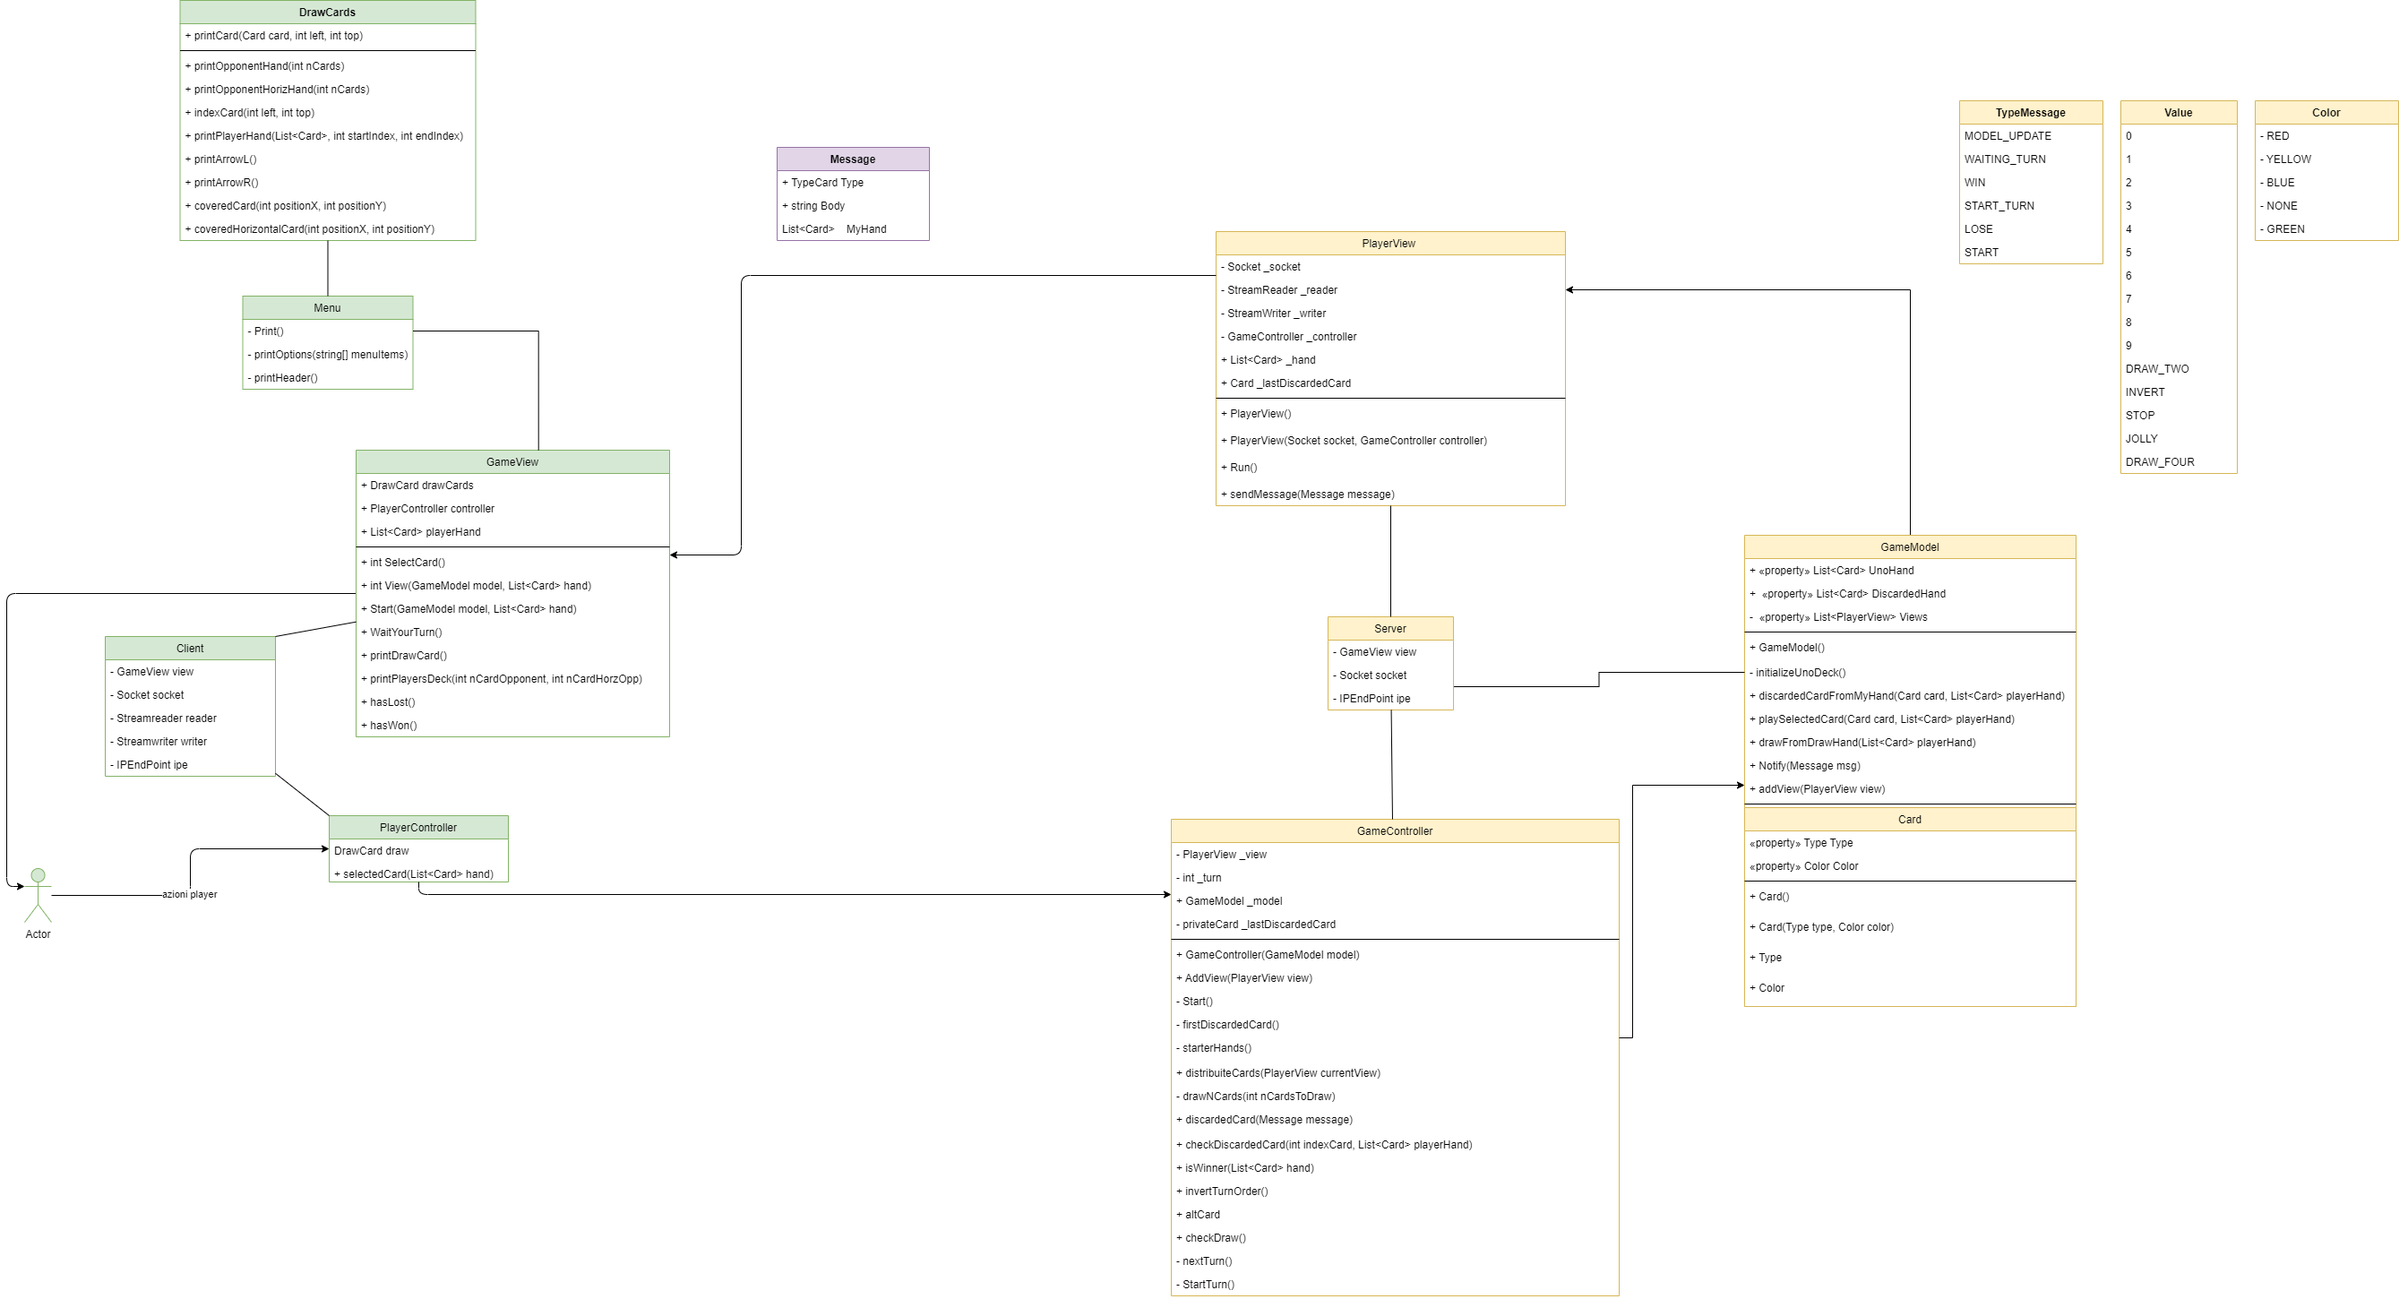
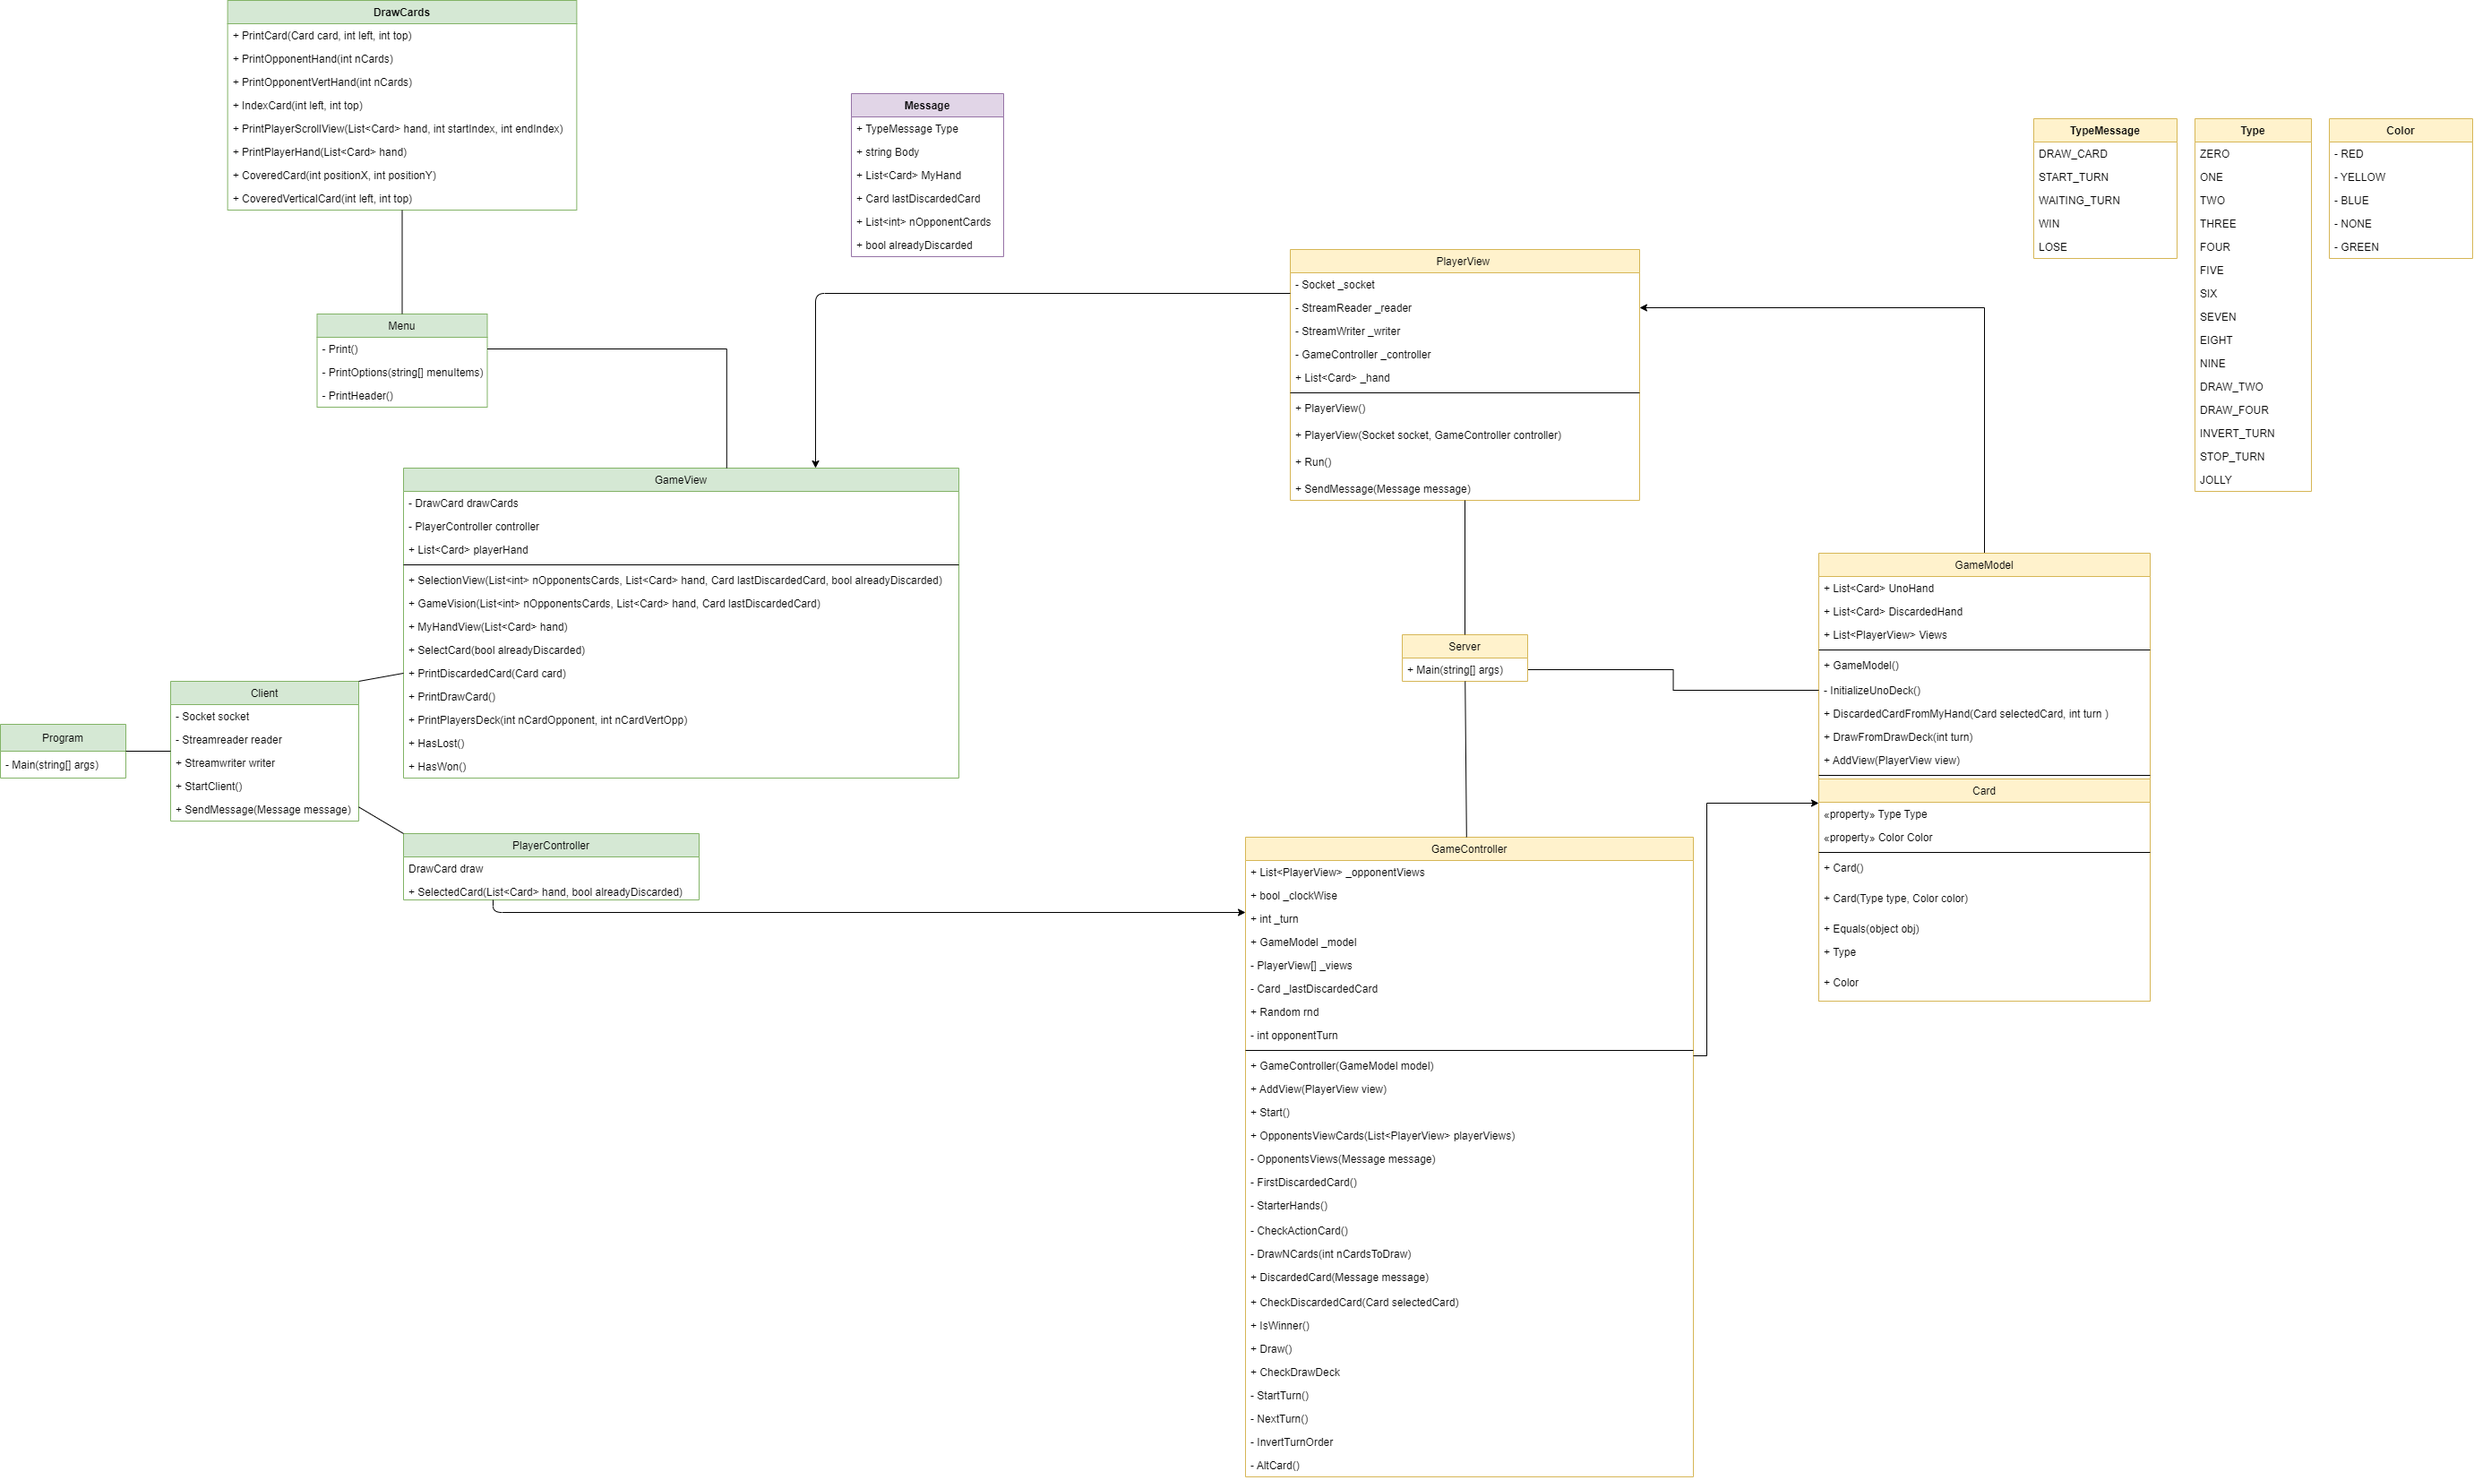
V2.1 Class Access Specifier, Cleaning Code

diff --git a/UnoProgetto/UnoProgetto/Utilis/DrawCards.cs b/UnoProgetto/UnoProgetto/Utilis/DrawCards.cs
@@ -11,7 +11,7 @@ namespace Client.Utilis
     {
       
         
-        internal void printCard(Card card, int left, int top)
+        internal void PrintCard(Card card, int left, int top)
         {
             switch (card.Color)
             {
@@ -58,9 +58,6 @@ namespace Client.Utilis
                 case UnoGame.Models.Type.JOLLY:
                     Console.WriteLine("|JOLLY|");
                     break;
-                case UnoGame.Models.Type.CHANGE_COLOR:
-                    Console.WriteLine("|COLOR|");
-                    break;
                 case UnoGame.Models.Type.ZERO:
                     Console.WriteLine("|  0  |");
                     break;
@@ -103,7 +100,7 @@ namespace Client.Utilis
             Console.ResetColor();
         }
 
-        internal void printOpponentHand(int nCards)
+        internal void PrintOpponentHand(int nCards)
         {
             int top = 0;
             int left = 30;
@@ -112,7 +109,7 @@ namespace Client.Utilis
             {
                 for (int i = 0; i < nCards; i++)
                 {
-                    coveredCard(left, top);
+                    CoveredCard(left, top);
                     left += 10;
                 }
             }
@@ -120,7 +117,7 @@ namespace Client.Utilis
             {
                 for (int i = 0; i < 7; i++)
                 {
-                    coveredCard(left, top);
+                    CoveredCard(left, top);
                     left += 10;
                 }
 
@@ -133,7 +130,7 @@ namespace Client.Utilis
             
         }
 
-        internal void printOpponentVertHand(int nCards)
+        internal void PrintOpponentVertHand(int nCards)
         {
             int left = 0;
             int top = 1;
@@ -144,7 +141,7 @@ namespace Client.Utilis
 
                 for (int i = 0; i < nCards; i++)
                 {
-                    coveredVerticalCard(left, top);
+                    CoveredVerticalCard(left, top);
                     top += 5;
                 }
                 
@@ -153,7 +150,7 @@ namespace Client.Utilis
             {
                 for (int i = 0; i < 7; i++)
                 {
-                    coveredVerticalCard(left, top);
+                    CoveredVerticalCard(left, top);
                     top += 5;
                 }
 
@@ -163,28 +160,27 @@ namespace Client.Utilis
             }
         }
 
-        internal void indexCard(int left, int top)
+        internal void IndexCard(int left, int top)
         {
             Console.SetCursorPosition(left, top);
             Console.WriteLine("*");
         }
 
-        public void printPlayerScrollView(List<Card> hand, int startIndex, int endIndex)
+        internal void PrintPlayerScrollView(List<Card> hand, int startIndex, int endIndex)
         {
 
             int top = 37;
             int left = 30;
             for (int i = startIndex; i <endIndex; i++)
             {
-                printCard(hand[i], left, top);
+                PrintCard(hand[i], left, top);
                 left += 10;
 
             }
 
         }
 
-
-        public void printPlayerHand(List<Card> hand)
+        internal void PrintPlayerHand(List<Card> hand)
         {
             int top = 37;
             int left = 30;
@@ -192,7 +188,7 @@ namespace Client.Utilis
             {
                 for (int i = 0; i < 7; i++)
                 {
-                    printCard(hand[i], left, top);
+                    PrintCard(hand[i], left, top);
                     left += 10;
 
 
@@ -202,7 +198,7 @@ namespace Client.Utilis
             {
                 for (int i = 0; i < hand.Count; i++)
                 {
-                    printCard(hand[i], left, top);
+                    PrintCard(hand[i], left, top);
                     left += 10;
 
 
@@ -211,20 +207,8 @@ namespace Client.Utilis
        
          
         }
-        internal void printArrowL()
-        {
-            Console.SetCursorPosition(50,40);
-            Console.WriteLine("-->");
-        }
-
-        internal void printArrowR()
-        {
-            Console.SetCursorPosition(30, 40);
-            Console.WriteLine("<--");
-        }
-
-
-        public void coveredCard(int positionX, int positionY)
+        
+        public void CoveredCard(int positionX, int positionY)
         {
             Console.SetCursorPosition(positionX, positionY);
             Console.WriteLine(" _____ ");
@@ -249,7 +233,7 @@ namespace Client.Utilis
             Console.ResetColor();
         }
 
-        public void coveredVerticalCard(int left, int top)
+        internal void CoveredVerticalCard(int left, int top)
         {
             Console.SetCursorPosition(left, top);
             Console.WriteLine(" ----------");

diff --git a/UnoProgetto/UnoProgetto/GameView.cs b/UnoProgetto/UnoProgetto/GameView.cs
@@ -26,7 +26,7 @@ namespace Client
         {
 
             Console.Clear();
-           playerHand = hand;
+            playerHand = hand;
 
             //stampo mani COPERTE giocatori avversari
             PrintPlayersDeck(nOpponentsCards[0], nOpponentsCards[1]);
@@ -38,7 +38,10 @@ namespace Client
             PrintDrawCard();
 
             //visione del mio deck
-            drawCards.printPlayerHand(hand);
+            drawCards.PrintPlayerHand(hand);
+
+            Console.WriteLine(" ");
+            Console.WriteLine("Press P to draw, use arrow keys to change card");
 
             //selezione della carta
             int index = SelectCard(alreadyDiscarded);
@@ -75,42 +78,41 @@ namespace Client
             PrintDrawCard();
 
             //visione del mio deck
-            drawCards.printPlayerHand(hand);
+            drawCards.PrintPlayerHand(hand);
 
             Console.WriteLine("Wait your turn!");
         }
 
         internal void MyHandView(List<Card> hand)
         {
-            drawCards.printPlayerHand(hand);
+            drawCards.PrintPlayerHand(hand);
 
         }
 
        
         internal int SelectCard(bool alreadyDiscarded)
         {
-            int index = controller.selectCard(playerHand, alreadyDiscarded);
+            int index = controller.SelectCard(playerHand, alreadyDiscarded);
             return index;
         }
 
 
-
         internal void PrintDiscardedCard(Card card)
         {
-            drawCards.printCard(card, 63,15);
+            drawCards.PrintCard(card, 63,15);
         }
 
         internal void PrintDrawCard()
         {
-            drawCards.coveredCard(72, 15);
+            drawCards.CoveredCard(72, 15);
         }
 
 
         //stampa le mani (nascosti) degli altri giocatori
         internal void PrintPlayersDeck(int nCardOpponent, int nCardHorzOpp)
         {
-            drawCards.printOpponentHand(nCardOpponent);
-            drawCards.printOpponentVertHand(nCardHorzOpp);
+            drawCards.PrintOpponentHand(nCardOpponent);
+            drawCards.PrintOpponentVertHand(nCardHorzOpp);
         }
 
 

diff --git a/UnoProgetto/UnoProgetto/Controller/PlayerController.cs b/UnoProgetto/UnoProgetto/Controller/PlayerController.cs
@@ -13,7 +13,7 @@ namespace Client.Controller
     public class PlayerController
     {
         DrawCard draw = new DrawCard();
-        internal int selectCard(List<Card> hand, bool alreadyDiscarded)
+        internal int SelectCard(List<Card> hand, bool alreadyDiscarded)
         {
 
             int n = 10;
@@ -39,7 +39,7 @@ namespace Client.Controller
                             
                             Console.SetCursorPosition(sumPos, 43);
                             Console.WriteLine(" ");
-                            draw.indexCard(sumPos + n, 43);
+                            draw.IndexCard(sumPos + n, 43);
                             lastCardIndex++;
                             viewedCardPosition++;
                             sumPos += n;
@@ -57,7 +57,7 @@ namespace Client.Controller
 
                         startCardIndex++;
                         lastCardIndex++;
-                        draw.printPlayerScrollView(hand, startCardIndex , startCardIndex + 7);
+                        draw.PrintPlayerScrollView(hand, startCardIndex , startCardIndex + 7);
                     }
 
                 }
@@ -70,7 +70,7 @@ namespace Client.Controller
                             
                             Console.SetCursorPosition(sumPos, 43);
                             Console.WriteLine(" ");
-                            draw.indexCard(sumPos - n, 43);
+                            draw.IndexCard(sumPos - n, 43);
                             lastCardIndex--;
                             viewedCardPosition--;            
                             sumPos -= n;
@@ -82,7 +82,7 @@ namespace Client.Controller
                     {
                         startCardIndex--;
                         lastCardIndex--;
-                        draw.printPlayerScrollView(hand, startCardIndex, startCardIndex +7 );
+                        draw.PrintPlayerScrollView(hand, startCardIndex, startCardIndex +7 );
                     }
                 }
             

diff --git a/UnoProgetto/Server/Controllers/GameController.cs b/UnoProgetto/Server/Controllers/GameController.cs
@@ -280,7 +280,7 @@ namespace UnoGame.Controllers
             if (card != null)
             {
                 var playerHand = message.MyHand;
-                bool discarded = CheckDiscardedCard(card, playerHand);
+                bool discarded = CheckDiscardedCard(card);
 
 
                 if (!discarded)
@@ -306,9 +306,8 @@ namespace UnoGame.Controllers
         /// Restituisce false se non posso scartare, true se posso.
         /// </summary>
         /// <param name="selectedCard"> la carta selezionata</param>
-        /// <param name="playerHand">mano del giocatore del turno</param>
         /// <returns></returns>
-        bool CheckDiscardedCard(Card selectedCard, List<Card> playerHand)
+        bool CheckDiscardedCard(Card selectedCard)
         {
 
             _lastDiscardedCard = _model.DiscardedHand.Last();
@@ -385,7 +384,7 @@ namespace UnoGame.Controllers
             //controllo della carta
             for (int i = 0; i < _views[_turn]._hand.Count && !canIDiscard; i++)
             {
-                if (_views[_turn]._hand[i].Color == lastDiscardedCard.Color || _views[_turn]._hand[i].Type == lastDiscardedCard.Type || _views[_turn]._hand[i].Type == Models.Type.CHANGE_COLOR || _views[_turn]._hand[i].Type == Models.Type.DRAW_FOUR || _views[_turn]._hand[i].Type == Models.Type.JOLLY)
+                if (_views[_turn]._hand[i].Color == lastDiscardedCard.Color || _views[_turn]._hand[i].Type == lastDiscardedCard.Type || _views[_turn]._hand[i].Type == Models.Type.DRAW_FOUR || _views[_turn]._hand[i].Type == Models.Type.JOLLY)
                 {
                     canIDiscard = true;
 

diff --git a/UnoProgetto/UnoProgetto/Utilis/Menu.cs b/UnoProgetto/UnoProgetto/Utilis/Menu.cs
@@ -13,7 +13,7 @@ namespace Client.Utilis
         public int Print()
         {
 
-            printHeader();
+            PrintHeader();
             string[] menuItems = {"3 PLAYERS", "EXIT" };
             var menu = new Menu();
             int option = menu.PrintOptions(menuItems);
@@ -75,12 +75,13 @@ namespace Client.Utilis
                 }
                 Console.Clear();
                 Console.SetCursorPosition(0, 0);
-                printHeader();
+                PrintHeader();
             }
 
             return cursorPosition;
         }
-        internal void printHeader()
+        
+        internal void PrintHeader()
         {
 
             Console.ForegroundColor = ConsoleColor.Magenta;

diff --git a/UnoProgetto/Server/Models/Card.cs b/UnoProgetto/Server/Models/Card.cs
@@ -40,8 +40,7 @@
         DRAW_FOUR,
         INVERT_TURN,
         STOP_TURN,
-        JOLLY,
-        CHANGE_COLOR
+        JOLLY
     }
 
     public enum Color

diff --git a/UnoProgetto/Server/Utilis/Message.cs b/UnoProgetto/Server/Utilis/Message.cs
@@ -26,7 +26,6 @@ namespace UnoGame
  
         DRAW_CARD,
         START_TURN,
-        HAND_UPDATE_VIEW,
         WAITING_TURN,
         WIN,
         LOSE,

diff --git a/UnoProgetto/Server/Models/GameModel.cs b/UnoProgetto/Server/Models/GameModel.cs
@@ -25,7 +25,6 @@ namespace UnoGame.Models
 
 
 
-        //FATTO
         private void InitalizeUnoDeck()
         {
             UnoHand = new List<Card>()
